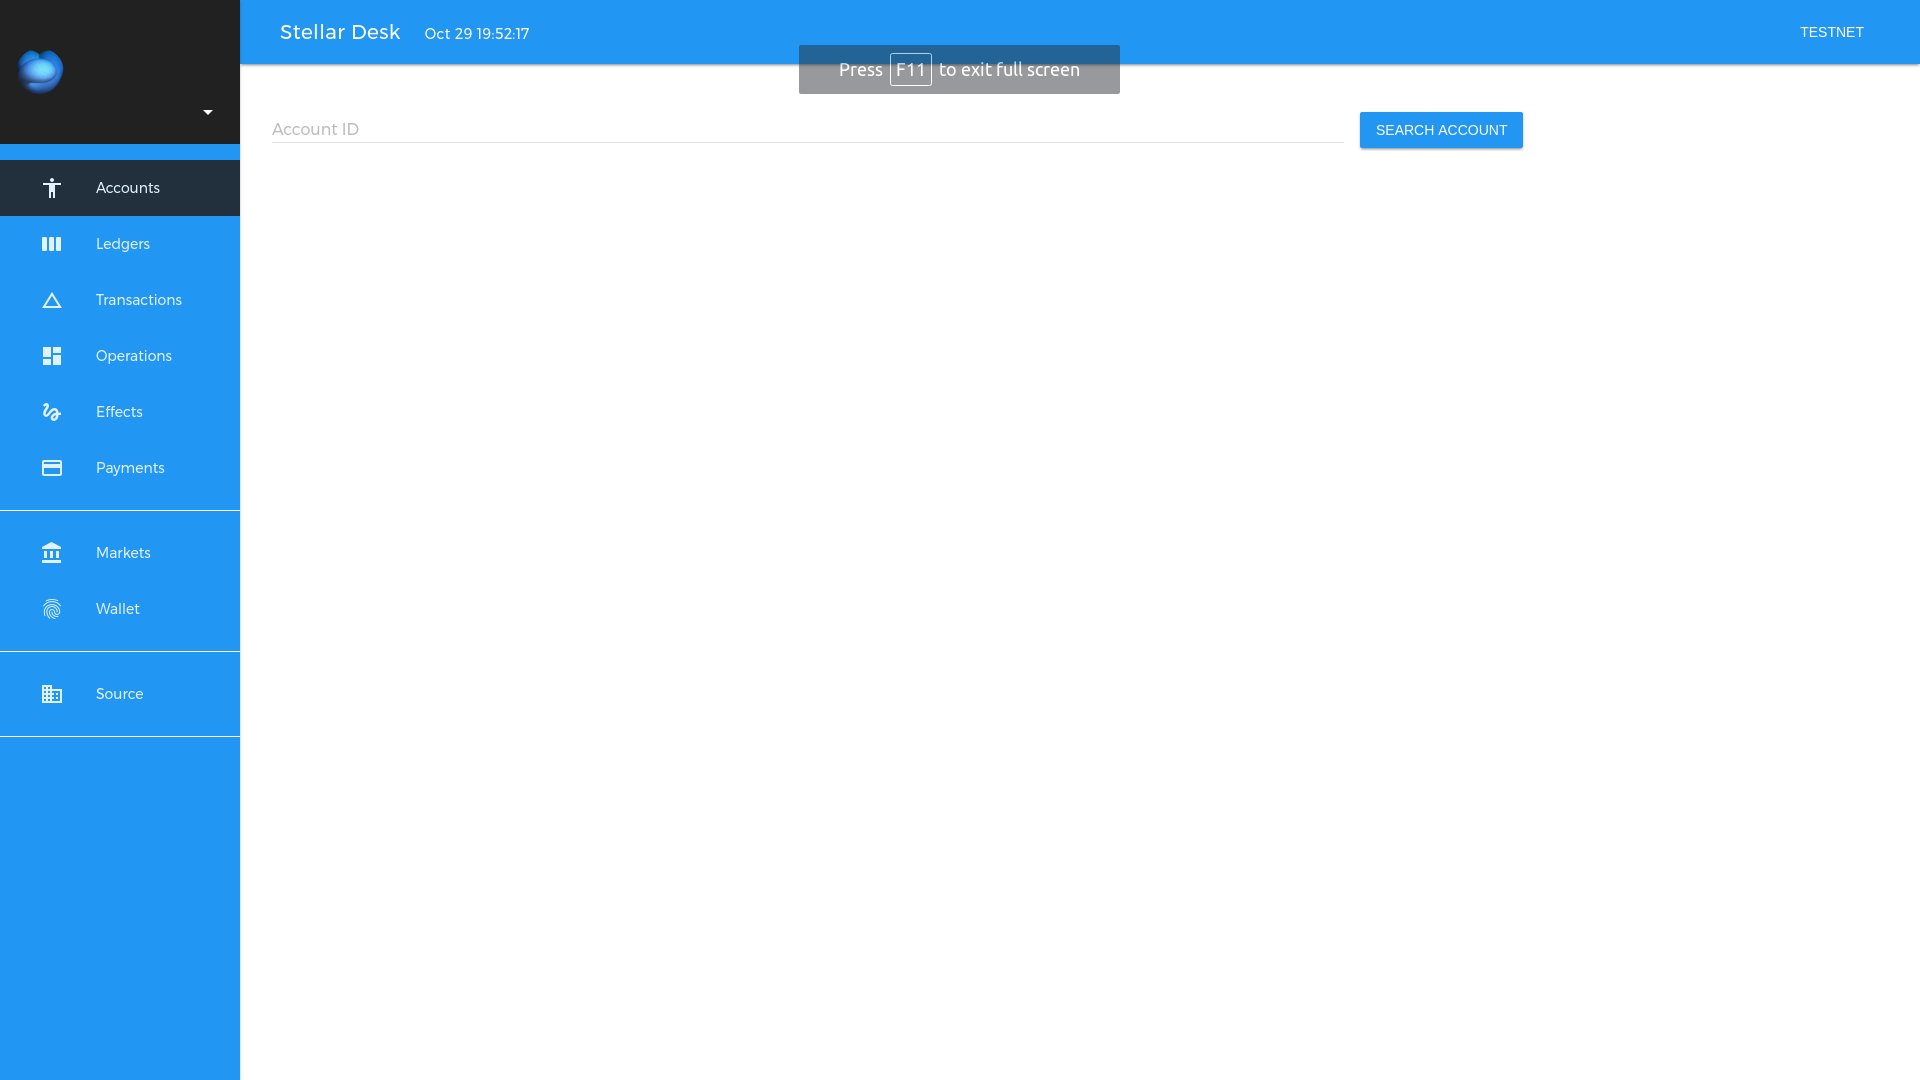
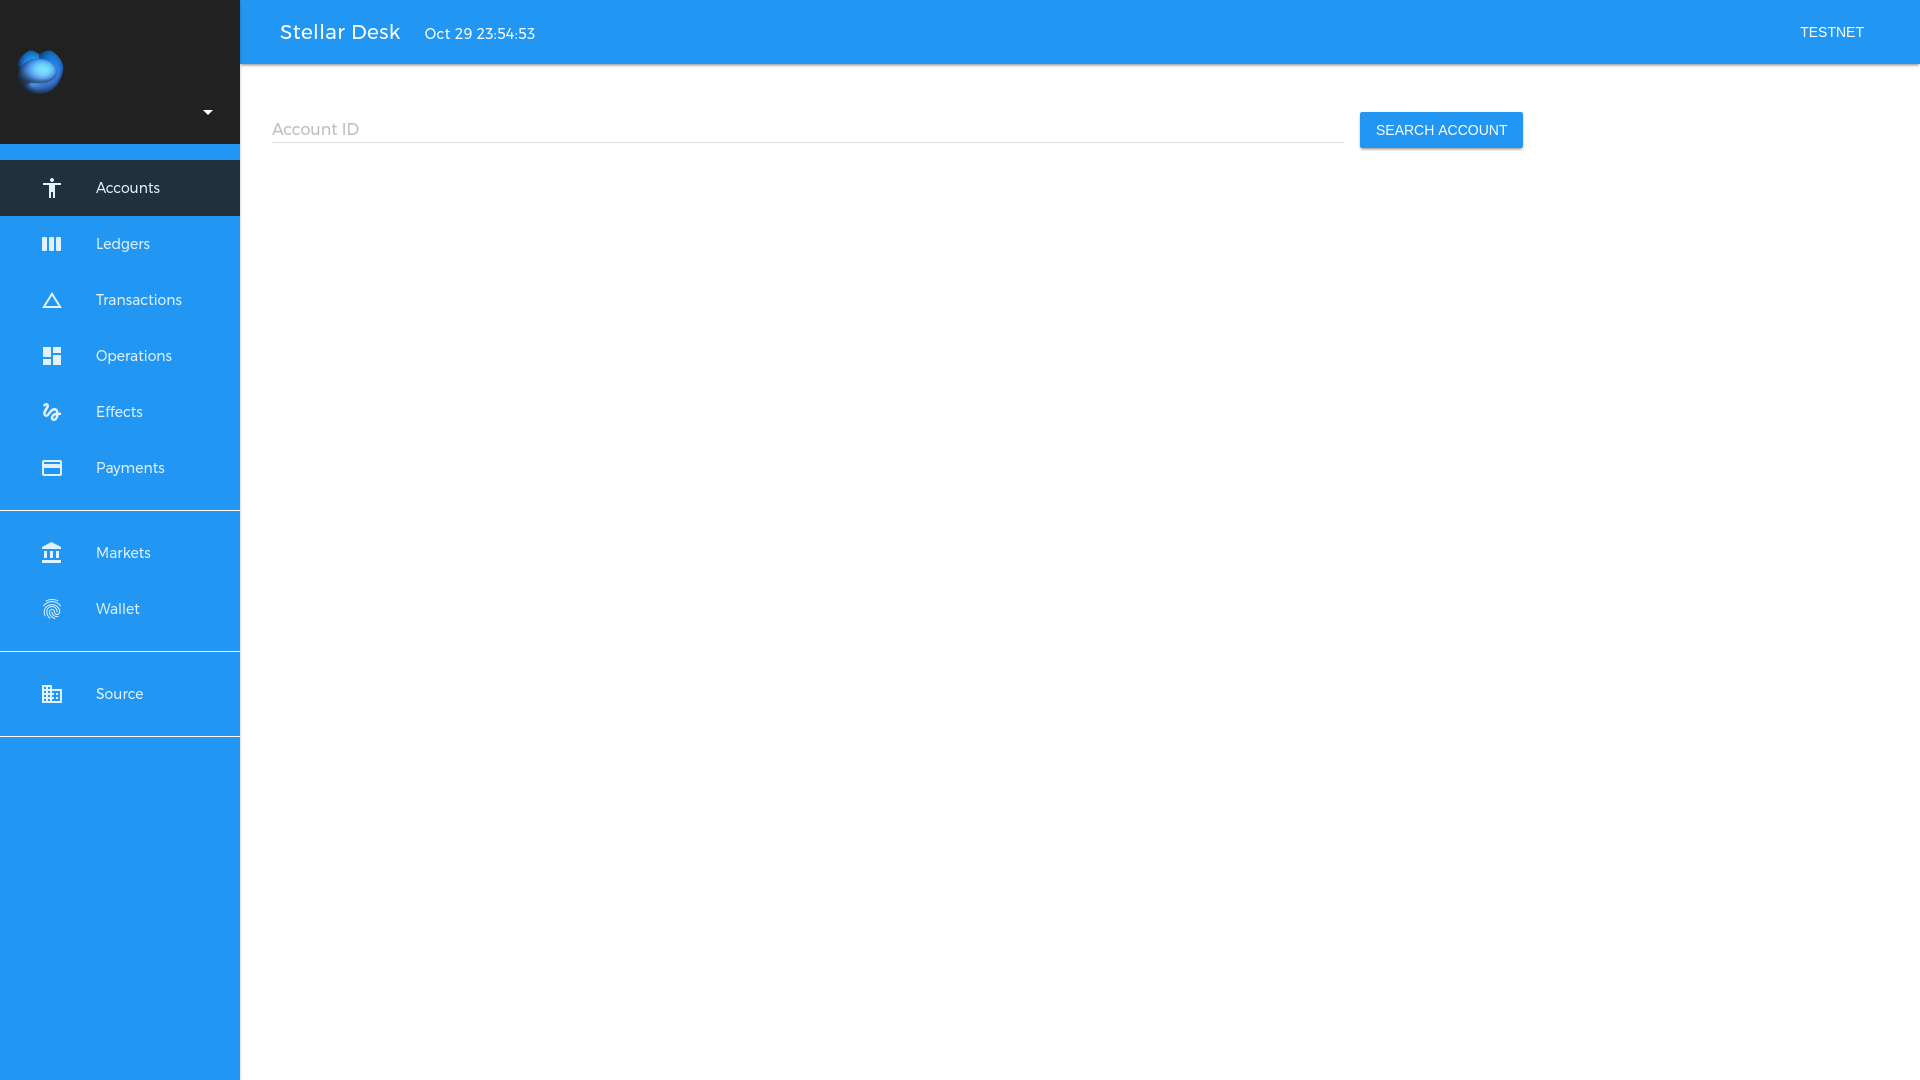
Added screenshots to README, fixed one screenshot.

Changed region(s): [[0.4062, 0.0306, 0.5938, 0.0917], [0.25, 0.0306, 0.2812, 0.0611]]

diff --git a/readme.md b/readme.md
@@ -1,3 +1,73 @@
 # Stellar Desk
 
-A dashboard for Stellar stats.
+[**Stellar Desk**](http://stellardesk.org) is a tool to interact with the Stellar network with a simple interface.
+You can use it as an [account viewer](http://stellardesk.org/accounts.html), [wallet](http://stellardesk.org/wallet.html), [network explorer](http://stellardesk.org/ledgers.html), or [markets monitor](http://stellardesk.org/markets.html).
+All data is visualized in real time.
+
+
+## View accounts
+
+Watch transactions, operations, effects, payments, and offers for any account, in real time.
+
+![](/screenshots/00.png)
+![](/screenshots/01.png)
+![](/screenshots/02.png)
+
+
+## Explore the network
+
+### All ledgers
+
+![](/screenshots/03.png)
+
+### Deepdive for a single ledger
+
+![](/screenshots/04.png)
+
+### Transactions
+
+![](/screenshots/05.png)
+
+### Operations
+
+![](/screenshots/06.png)
+
+### Effects
+
+![](/screenshots/07.png)
+
+### Payments
+
+![](/screenshots/08.png)
+
+
+## Monitor the Lumen (centralized) markets
+
+![](/screenshots/09.png)
+![](/screenshots/0a.png)
+
+## Wallet
+
+### Generate accounts
+
+![](/screenshots/0b.png)
+
+### Send lumens
+
+![](/screenshots/0c.png)
+![](/screenshots/0d.png)
+![](/screenshots/0e.png)
+![](/screenshots/0f.png)
+
+The secret seed is never stored.
+
+
+### Gotchas
+
+Currently it can only run on the testnet, until more testing is done.
+
+
+## TODOs
+
+- Send more assets
+- Support more operations
